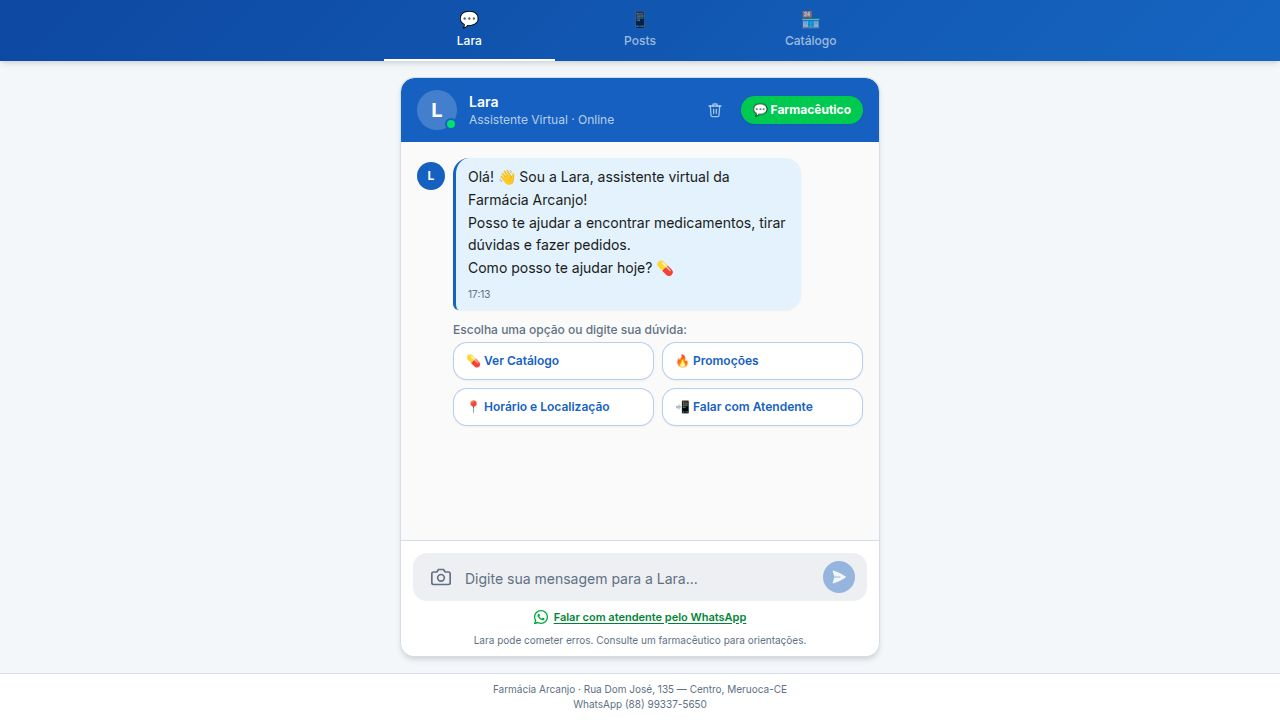
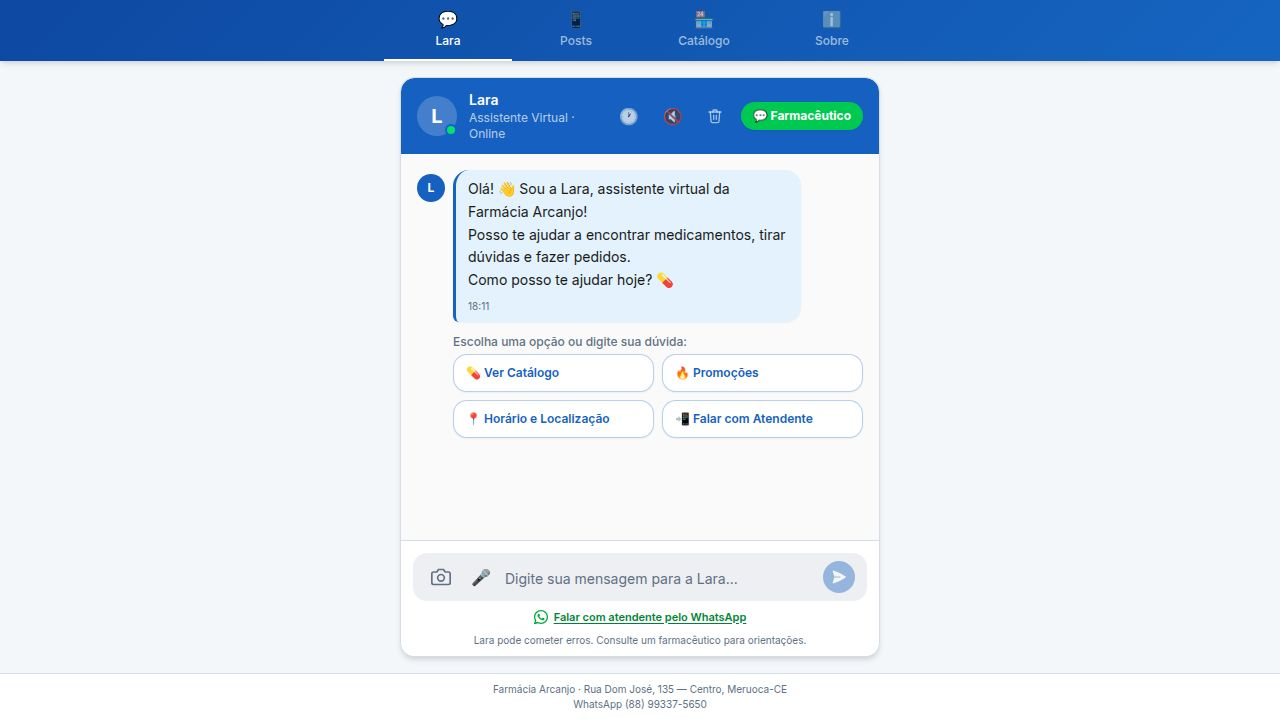
feat: associate customer to sale in FechamentoCaixa (Task #4)
## Task
Add optional customer field to Fechamento de Caixa so sales can be
linked to registered clients, with the purchase appearing in the
client's purchase history and the client name showing in Relatório de Pedidos.

## Changes

### FechamentoCaixa.tsx (rewritten)
- Loads registered clients from localStorage (farmacia_arcanjo_clientes)
- New "Cliente (opcional)" card with live search input
- Dropdown shows matching clients filtered by name or phone as user types
- Selecting a client shows a green confirmation badge ("histórico será atualizado")
- ✕ button to clear the client selection
- finalizarVenda() now includes cliente name in PedidoFirebase object
- Calls registrarCompraCliente(phone, compra) for clients selected from registry,
  updating their purchase history in localStorage
- "Finalizar Venda" button shows client name when one is selected
- Success screen shows client name after sale is completed
- novaVenda() resets client state

### RelatorioPedidos.tsx
- Pedido list now shows "👤 ClienteName" in blue for linked sales,
  "Venda avulsa" in muted text for anonymous sales
- Expanded detail view shows a highlighted client badge when sale has a client

## Notes
- Client name can also be typed freely (non-registered) — stored as-is
- registrarCompraCliente only runs when client is from the registry (has phone)
- Firebase sync of client purchase history is a follow-up (Task #9)
- PedidoFirebase.cliente field already existed — no schema changes needed

diff --git a/artifacts/farmacia-arcanjo/src/pages/FechamentoCaixa.tsx b/artifacts/farmacia-arcanjo/src/pages/FechamentoCaixa.tsx
@@ -1,5 +1,6 @@
-import React, { useState } from "react";
+import React, { useState, useEffect, useRef } from "react";
 import { salvarPedidoCaixaFirebase, type PedidoFirebase } from "../lib/firebase";
+import { registrarCompraCliente } from "./CadastroClientes";
 
 const CHAVE_PEDIDOS = "farmacia_arcanjo_pedidos";
 function salvarPedidoLocal(pedido: PedidoFirebase) {
@@ -14,6 +15,12 @@ interface Produto {
   nome: string;
   preco: number;
   estoque?: number;
+}
+
+interface ClienteSimples {
+  id: string;
+  nome: string;
+  telefone: string;
 }
 
 interface Props {
@@ -37,12 +44,37 @@ const s = {
 
 const fmtMoeda = (v: number) => `R$ ${v.toFixed(2).replace(".", ",")}`;
 
+function carregarClientes(): ClienteSimples[] {
+  try {
+    const raw = JSON.parse(localStorage.getItem("farmacia_arcanjo_clientes") || "[]");
+    return (raw as ClienteSimples[]).map(c => ({ id: c.id, nome: c.nome, telefone: c.telefone }));
+  } catch { return []; }
+}
+
 export default function FechamentoCaixa({ produtos, onAtualizarEstoque }: Props) {
   const [itens, setItens] = useState<{ produto: Produto; qtd: number }[]>([]);
   const [busca, setBusca] = useState("");
   const [formaPagamento, setFormaPagamento] = useState("dinheiro");
   const [valorRecebido, setValorRecebido] = useState("");
   const [fechado, setFechado] = useState(false);
+
+  // Cliente
+  const [clientes, setClientes] = useState<ClienteSimples[]>([]);
+  const [buscaCliente, setBuscaCliente] = useState("");
+  const [clienteSelecionado, setClienteSelecionado] = useState<ClienteSimples | null>(null);
+  const [mostrarDropdown, setMostrarDropdown] = useState(false);
+  const clienteInputRef = useRef<HTMLInputElement>(null);
+
+  useEffect(() => {
+    setClientes(carregarClientes());
+  }, []);
+
+  const clientesFiltrados = buscaCliente.trim().length >= 1
+    ? clientes.filter(c =>
+        c.nome.toLowerCase().includes(buscaCliente.toLowerCase()) ||
+        c.telefone.includes(buscaCliente)
+      ).slice(0, 6)
+    : [];
 
   const produtosFiltrados = produtos.filter(
     (p) => p.nome.toLowerCase().includes(busca.toLowerCase()) && (p.estoque ?? 1) > 0
@@ -67,6 +99,17 @@ export default function FechamentoCaixa({ produtos, onAtualizarEstoque }: Props)
     setItens((prev) => prev.filter((i) => i.produto.id !== id));
   }
 
+  function selecionarCliente(c: ClienteSimples) {
+    setClienteSelecionado(c);
+    setBuscaCliente(c.nome);
+    setMostrarDropdown(false);
+  }
+
+  function limparCliente() {
+    setClienteSelecionado(null);
+    setBuscaCliente("");
+  }
+
   function finalizarVenda() {
     const novos = produtos.map((p) => {
       const item = itens.find((i) => i.produto.id === p.id);
@@ -75,9 +118,12 @@ export default function FechamentoCaixa({ produtos, onAtualizarEstoque }: Props)
     });
     onAtualizarEstoque(novos);
 
+    const nomeCliente = clienteSelecionado?.nome || (buscaCliente.trim() || undefined);
+
     const pedido: PedidoFirebase = {
       id: Date.now().toString(),
       data: new Date().toISOString(),
+      cliente: nomeCliente,
       itens: itens.map(i => ({
         produtoId: i.produto.id,
         nome: i.produto.nome,
@@ -91,6 +137,15 @@ export default function FechamentoCaixa({ produtos, onAtualizarEstoque }: Props)
     salvarPedidoLocal(pedido);
     salvarPedidoCaixaFirebase(pedido);
 
+    // Registrar compra no histórico do cliente (se vinculado via cadastro)
+    if (clienteSelecionado?.telefone) {
+      registrarCompraCliente(clienteSelecionado.telefone, {
+        data: pedido.data,
+        itens: itens.map(i => `${i.produto.nome} (${i.qtd}x)`),
+        total,
+      });
+    }
+
     setFechado(true);
   }
 
@@ -100,6 +155,8 @@ export default function FechamentoCaixa({ produtos, onAtualizarEstoque }: Props)
     setFormaPagamento("dinheiro");
     setValorRecebido("");
     setFechado(false);
+    setClienteSelecionado(null);
+    setBuscaCliente("");
   }
 
   if (fechado) {
@@ -110,6 +167,11 @@ export default function FechamentoCaixa({ produtos, onAtualizarEstoque }: Props)
           <div style={{ fontSize: 22, fontWeight: "bold", color: "#4ade80", marginBottom: 8 }}>
             Venda Finalizada!
           </div>
+          {clienteSelecionado && (
+            <div style={{ color: "#93c5fd", marginBottom: 8, fontSize: 15 }}>
+              👤 {clienteSelecionado.nome}
+            </div>
+          )}
           <div style={{ color: "#94a3b8", marginBottom: 8 }}>Total: {fmtMoeda(total)}</div>
           {formaPagamento === "dinheiro" && parseFloat(valorRecebido) > 0 && (
             <div style={{ color: "#4ade80", marginBottom: 24 }}>
@@ -127,6 +189,67 @@ export default function FechamentoCaixa({ produtos, onAtualizarEstoque }: Props)
   return (
     <div style={s.container}>
       <div style={s.header}>🧾 Fechamento de Caixa</div>
+
+      {/* Campo Cliente */}
+      <div style={s.card}>
+        <div style={s.label}>👤 Cliente (opcional)</div>
+        <div style={{ position: "relative" }}>
+          <div style={{ display: "flex", gap: 8, alignItems: "center" }}>
+            <input
+              ref={clienteInputRef}
+              style={{ ...s.input, flex: 1, borderColor: clienteSelecionado ? "#4ade80" : "#334155" }}
+              placeholder="Buscar cliente cadastrado ou digitar nome..."
+              value={buscaCliente}
+              onChange={(e) => {
+                setBuscaCliente(e.target.value);
+                setClienteSelecionado(null);
+                setMostrarDropdown(true);
+              }}
+              onFocus={() => setMostrarDropdown(true)}
+              onBlur={() => setTimeout(() => setMostrarDropdown(false), 150)}
+            />
+            {buscaCliente && (
+              <button
+                onClick={limparCliente}
+                style={{ background: "none", border: "none", color: "#94a3b8", cursor: "pointer", fontSize: 18, padding: "0 4px", flexShrink: 0 }}
+              >
+                ✕
+              </button>
+            )}
+          </div>
+
+          {/* Dropdown de clientes */}
+          {mostrarDropdown && clientesFiltrados.length > 0 && (
+            <div style={{ position: "absolute", top: "100%", left: 0, right: 0, background: "#1e293b", border: "1px solid #334155", borderRadius: 8, zIndex: 50, marginTop: 4, boxShadow: "0 8px 24px rgba(0,0,0,0.4)" }}>
+              {clientesFiltrados.map(c => (
+                <div
+                  key={c.id}
+                  onMouseDown={() => selecionarCliente(c)}
+                  style={{ padding: "10px 14px", cursor: "pointer", borderBottom: "1px solid #0f172a", display: "flex", justifyContent: "space-between", alignItems: "center" }}
+                  onMouseEnter={e => (e.currentTarget.style.background = "#334155")}
+                  onMouseLeave={e => (e.currentTarget.style.background = "transparent")}
+                >
+                  <div>
+                    <div style={{ fontSize: 14, fontWeight: 600 }}>{c.nome}</div>
+                    <div style={{ fontSize: 11, color: "#94a3b8" }}>{c.telefone}</div>
+                  </div>
+                  <span style={{ fontSize: 18 }}>👤</span>
+                </div>
+              ))}
+            </div>
+          )}
+        </div>
+
+        {clienteSelecionado && (
+          <div style={{ marginTop: 8, padding: "8px 12px", background: "#14532d", borderRadius: 8, display: "flex", alignItems: "center", gap: 8 }}>
+            <span style={{ fontSize: 16 }}>✅</span>
+            <div>
+              <div style={{ fontSize: 13, fontWeight: 700, color: "#86efac" }}>{clienteSelecionado.nome}</div>
+              <div style={{ fontSize: 11, color: "#4ade80" }}>{clienteSelecionado.telefone} — histórico será atualizado</div>
+            </div>
+          </div>
+        )}
+      </div>
 
       {/* Busca produto */}
       <div style={s.card}>
@@ -236,7 +359,7 @@ export default function FechamentoCaixa({ produtos, onAtualizarEstoque }: Props)
             onClick={finalizarVenda}
             disabled={itens.length === 0}
           >
-            ✅ Finalizar Venda
+            ✅ Finalizar Venda {clienteSelecionado ? `— ${clienteSelecionado.nome}` : ""}
           </button>
         </div>
       )}

diff --git a/artifacts/farmacia-arcanjo/src/pages/RelatorioPedidos.tsx b/artifacts/farmacia-arcanjo/src/pages/RelatorioPedidos.tsx
@@ -258,7 +258,11 @@ export default function RelatorioPedidos() {
             <div key={p.id} style={s.itemPedido} onClick={() => setPedidoAberto(pedidoAberto === p.id ? null : p.id)}>
               <div style={{ display: "flex", justifyContent: "space-between", alignItems: "center" }}>
                 <div>
-                  <p style={{ margin: 0, fontSize: 13, fontWeight: 700 }}>#{p.id} {p.cliente ? `— ${p.cliente}` : ""}</p>
+                  <p style={{ margin: 0, fontSize: 13, fontWeight: 700 }}>
+                    {p.cliente
+                      ? <><span style={{ color: "#93c5fd" }}>👤 {p.cliente}</span></>
+                      : <span style={{ color: cor.muted }}>Venda avulsa</span>}
+                  </p>
                   <p style={{ margin: "3px 0 0", fontSize: 11, color: cor.muted }}>{fmtData(p.data)}</p>
                 </div>
                 <div style={{ textAlign: "right" }}>
@@ -268,6 +272,11 @@ export default function RelatorioPedidos() {
               </div>
               {pedidoAberto === p.id && (
                 <div style={{ marginTop: 12, borderTop: `1px solid ${cor.borda}`, paddingTop: 10 }}>
+                  {p.cliente && (
+                    <div style={{ marginBottom: 8, padding: "6px 10px", background: "#1e3a5f", borderRadius: 6, fontSize: 12, color: "#93c5fd" }}>
+                      👤 Cliente: <strong>{p.cliente}</strong>
+                    </div>
+                  )}
                   {p.itens.map((it, i) => (
                     <div key={i} style={{ display: "flex", justifyContent: "space-between", fontSize: 12, color: cor.muted, marginBottom: 4 }}>
                       <span>{it.nome} × {it.quantidade}</span>